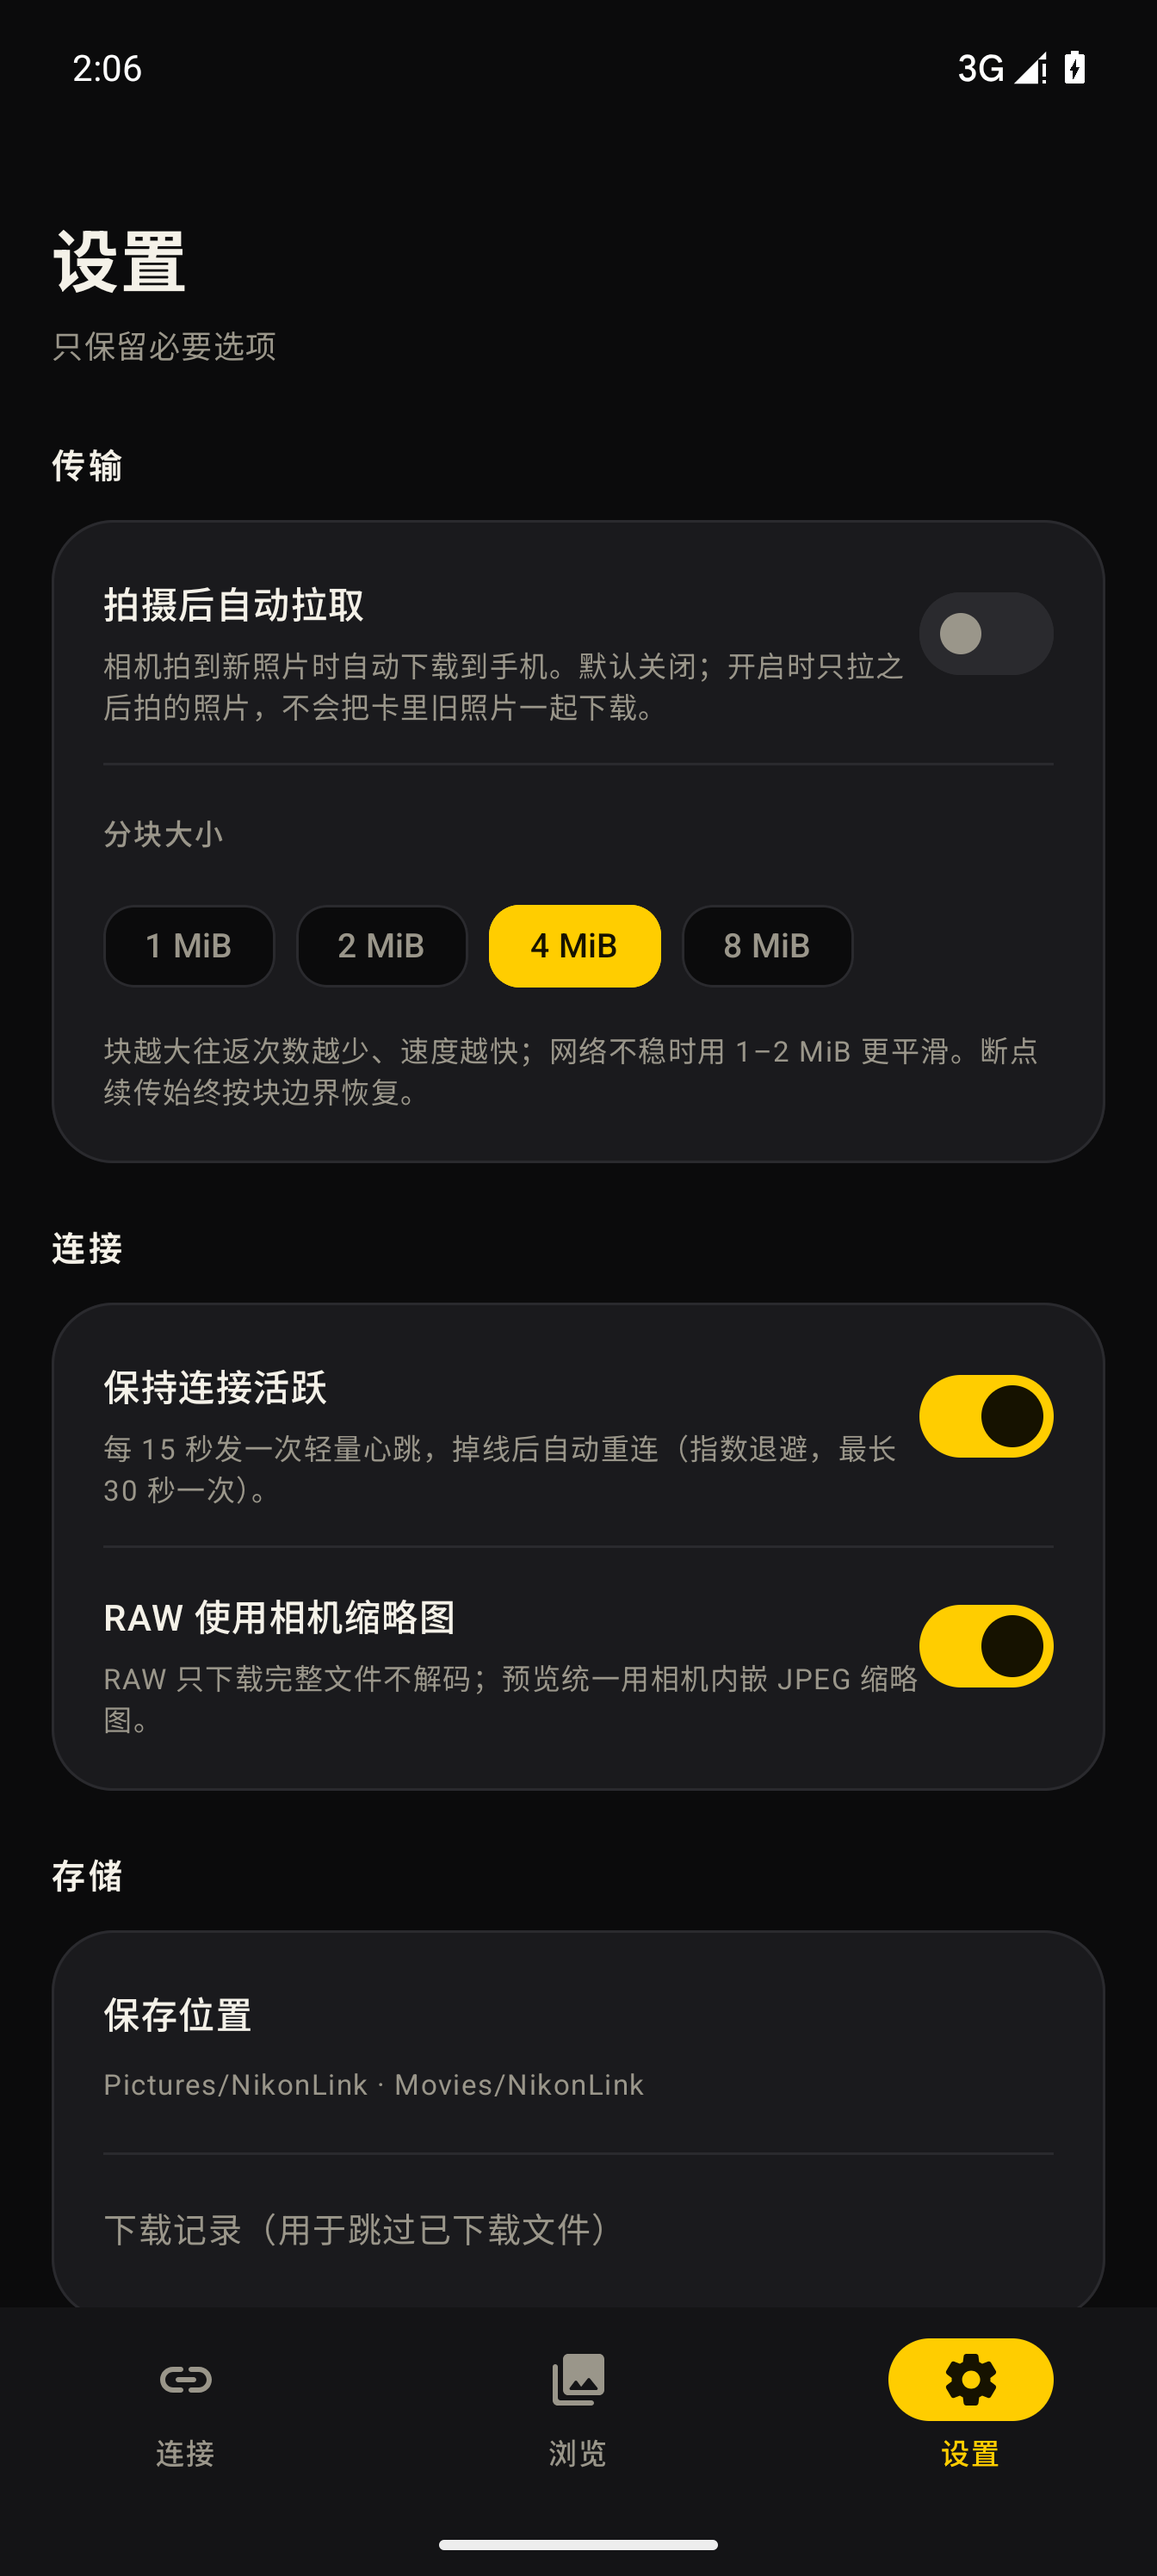
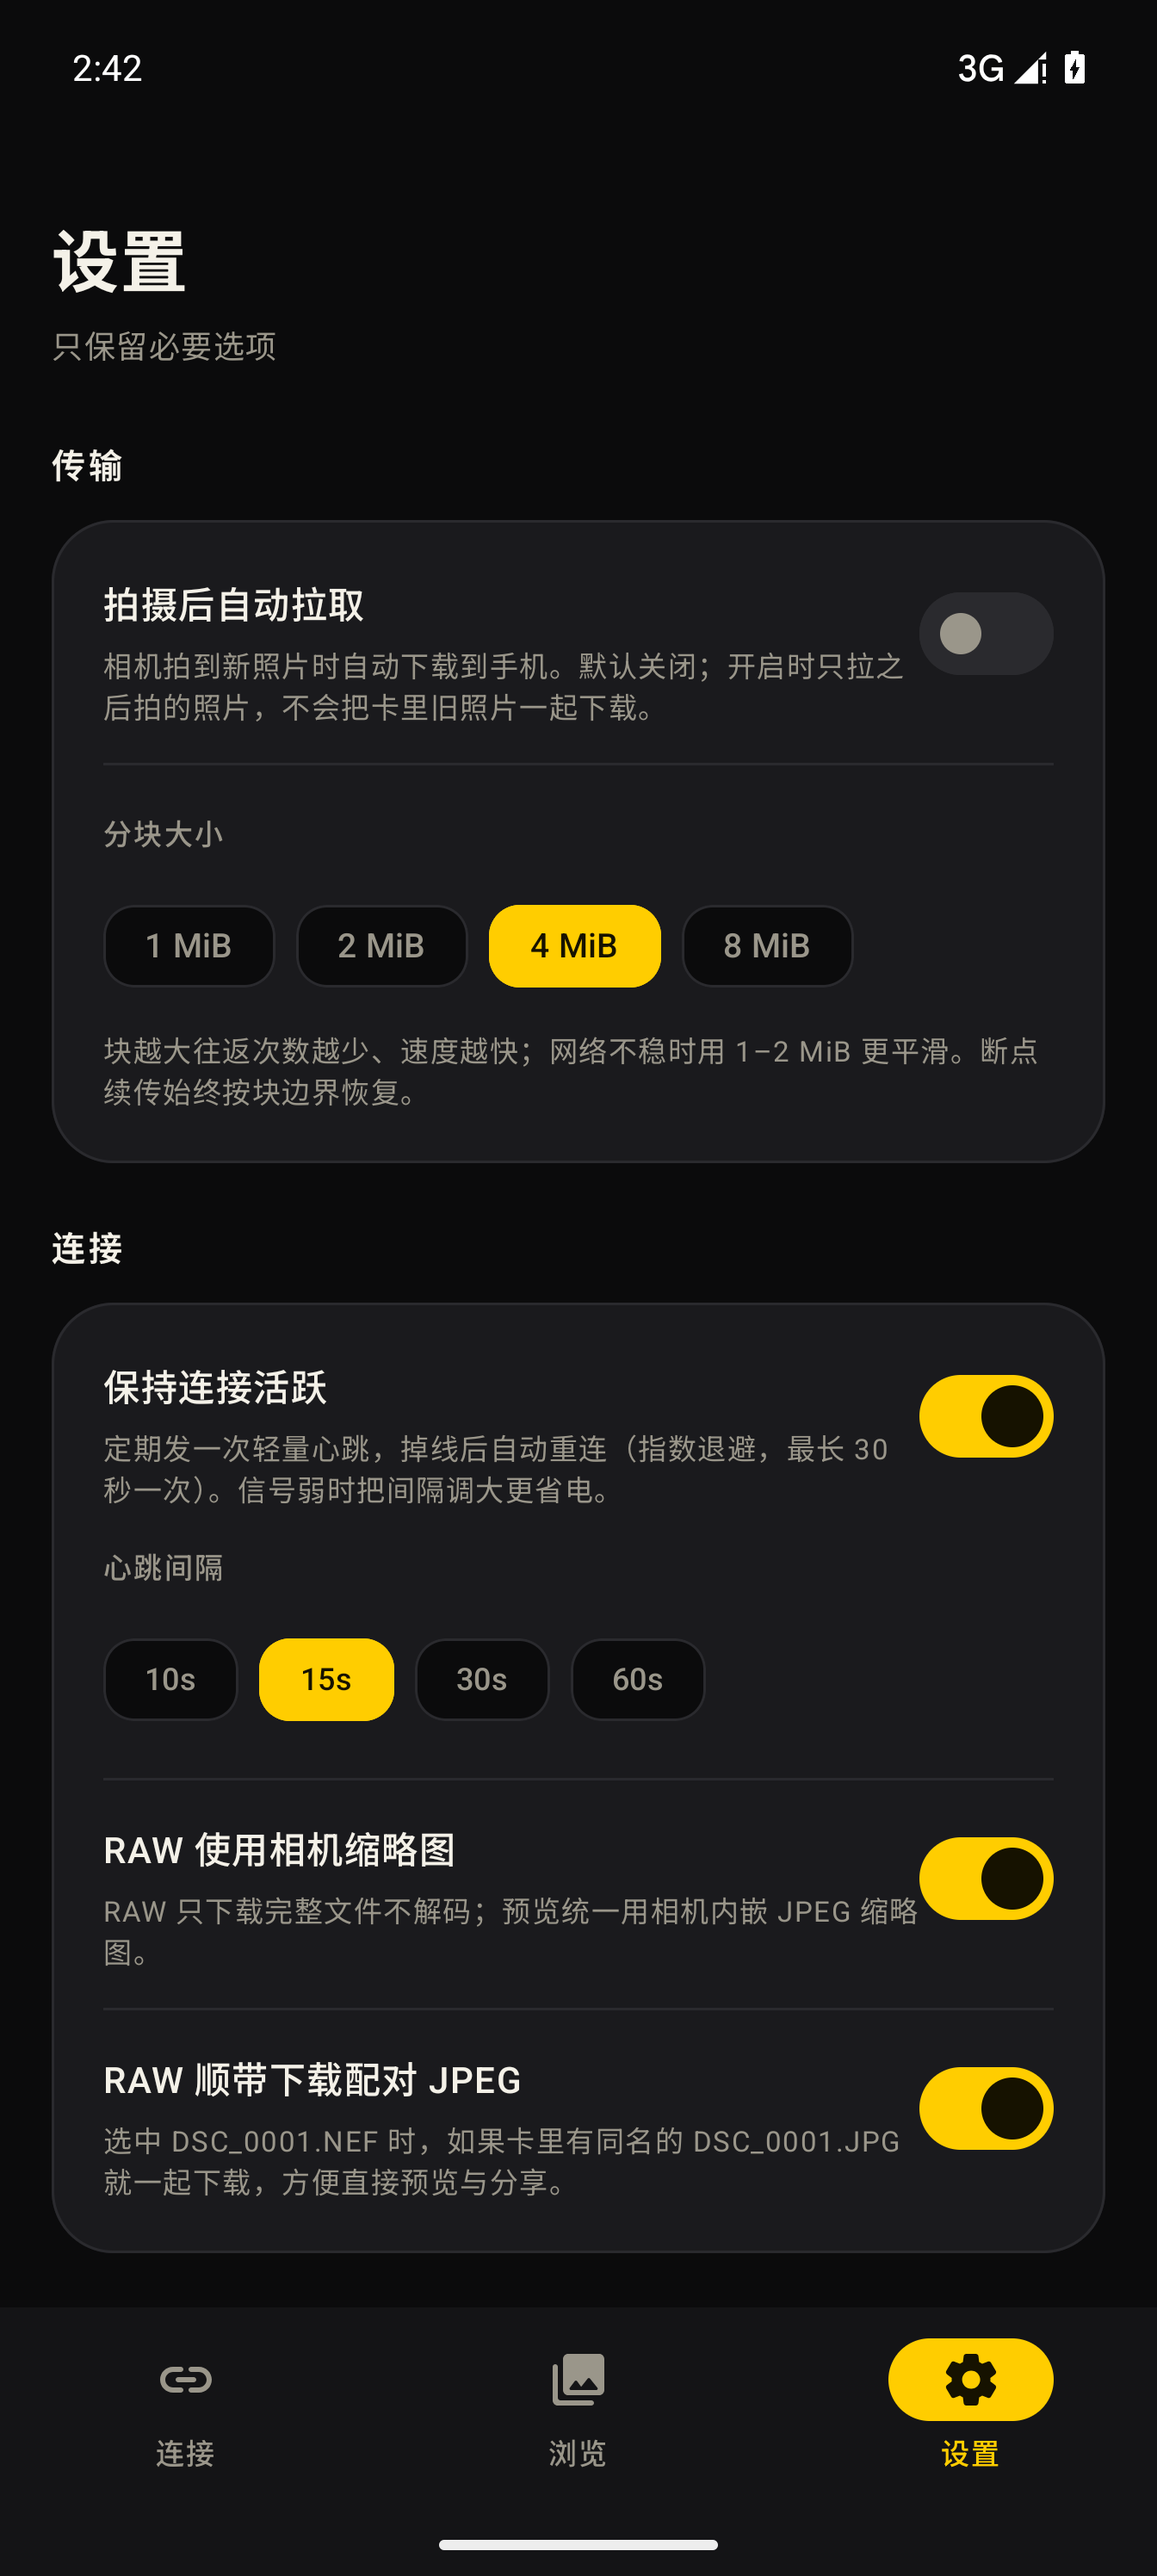
chore: 0.1.8 — lint 收尾、权限修复、死代码清理
- lint 2 error / 4 warning → 0 error / 3 warning
- 声明 ACCESS_COARSE_LOCATION 并在运行时一并申请（Android 12+ 精确位置要求）
- 连接页改用 collectAsStateWithLifecycle，去掉 composition 里的 StateFlow.value
- 「RAW 使用相机缩略图」开关真正生效
- 删除 Tag / TutorialButton / TutorialLinkRow 与未用工具函数、冗余 SDK 判断
- 更新设置页截图

diff --git a/app/src/main/java/com/achooluv/nikonlink/NikonLinkRepository.kt b/app/src/main/java/com/achooluv/nikonlink/NikonLinkRepository.kt
@@ -103,6 +103,7 @@ class NikonLinkRepository private constructor(private val app: Application) {
 
     private var thumbLargeUnsupported = false
     private var allHandles: List<Int> = emptyList()
+    private val kindByHandle = HashMap<Int, com.achooluv.nikonlink.camera.FileKind>()
     private var loadedPages = 0
     private var connectJob: Job? = null
     private var keepAliveJob: Job? = null
@@ -169,6 +170,7 @@ class NikonLinkRepository private constructor(private val app: Application) {
                 loadedPages = 0
                 allHandles = emptyList()
                 _files.value = emptyList()
+                kindByHandle.clear()
                 thumbnailCache.evictAll()
 
                 val storage = readStorage()
@@ -234,6 +236,7 @@ class NikonLinkRepository private constructor(private val app: Application) {
             _identity.value = null
             _files.value = emptyList()
             allHandles = emptyList()
+            kindByHandle.clear()
             thumbnailCache.evictAll()
         }
     }
@@ -350,6 +353,7 @@ class NikonLinkRepository private constructor(private val app: Application) {
                 allHandles = handles.distinct().sortedDescending()
                 loadedPages = 0
                 _files.value = emptyList()
+                kindByHandle.clear()
                 reconcileBaseline()
                 loadPage()
             } catch (e: Exception) {
@@ -386,6 +390,7 @@ class NikonLinkRepository private constructor(private val app: Application) {
             if (info.isFolder) continue
             val file = CameraFile.from(info, handle)
             if (file.kind == com.achooluv.nikonlink.camera.FileKind.OTHER) continue
+            kindByHandle[file.handle] = file.kind
             loaded += file
         }
         loadedPages++
@@ -445,6 +450,12 @@ class NikonLinkRepository private constructor(private val app: Application) {
     }
 
     /** Loads a JPEG preview for [handle]; returns null when the body has none. */    suspend fun thumbnail(handle: Int): ByteArray? {
+        // Honour the "RAW 使用相机缩略图" switch: with it off, RAW cells stay as placeholders.
+        if (!settings.showRawThumbnails.value &&
+            kindByHandle[handle] == com.achooluv.nikonlink.camera.FileKind.RAW
+        ) {
+            return null
+        }
         thumbnailCache.get(handle)?.let { return it }
         thumbMutex.withLock {
             thumbnailCache.get(handle)?.let { return it }

diff --git a/app/src/main/java/com/achooluv/nikonlink/ui/Components.kt b/app/src/main/java/com/achooluv/nikonlink/ui/Components.kt
@@ -9,8 +9,6 @@ import androidx.compose.animation.core.infiniteRepeatable
 import androidx.compose.animation.core.rememberInfiniteTransition
 import androidx.compose.animation.core.tween
 import androidx.compose.foundation.background
-import androidx.compose.foundation.border
-import androidx.compose.foundation.clickable
 import androidx.compose.foundation.layout.Arrangement
 import androidx.compose.foundation.layout.Box
 import androidx.compose.foundation.layout.Column
@@ -21,7 +19,6 @@ import androidx.compose.foundation.layout.height
 import androidx.compose.foundation.layout.padding
 import androidx.compose.foundation.layout.size
 import androidx.compose.foundation.shape.RoundedCornerShape
-import androidx.compose.material3.MaterialTheme
 import androidx.compose.material3.Surface
 import androidx.compose.material3.Text
 import androidx.compose.runtime.Composable
@@ -29,7 +26,6 @@ import androidx.compose.runtime.getValue
 import androidx.compose.runtime.remember
 import androidx.compose.ui.Alignment
 import androidx.compose.ui.Modifier
-import androidx.compose.ui.composed
 import androidx.compose.ui.draw.clip
 import androidx.compose.ui.graphics.Brush
 import androidx.compose.ui.graphics.Color
@@ -165,25 +161,5 @@ fun Mono(text: String, color: Color = Paper, size: Int = 13) {
         color = color,
         fontSize = size.sp,
         fontFamily = androidx.compose.ui.text.font.FontFamily.Monospace,
-    )
-}
-
-@Composable
-fun Tag(text: String, color: Color = NikonLinkTheme.colors.dim) {
-    Box(
-        Modifier
-            .border(1.dp, color.copy(alpha = 0.4f), RoundedCornerShape(20.dp))
-            .padding(horizontal = 10.dp, vertical = 4.dp),
-    ) {
-        Text(text, color = color, fontSize = 11.sp)
-    }
-}
-
-/** Clickable row without the ripple, for inline links on a dark background. */
-fun Modifier.clickableNoIndication(onClick: () -> Unit): Modifier = composed {
-    clickable(
-        interactionSource = remember { androidx.compose.foundation.interaction.MutableInteractionSource() },
-        indication = null,
-        onClick = onClick,
     )
 }

diff --git a/app/src/main/java/com/achooluv/nikonlink/ui/Tutorial.kt b/app/src/main/java/com/achooluv/nikonlink/ui/Tutorial.kt
@@ -103,8 +103,7 @@ val tutorialSections = listOf(
 )
 
 @Composable
-fun TutorialSheet(onDismiss: () -> Unit) {
-    androidx.compose.material3.ModalBottomSheet(
+fun TutorialSheet(onDismiss: () -> Unit) {    androidx.compose.material3.ModalBottomSheet(
         onDismissRequest = onDismiss,
         containerColor = InkRaised,
         dragHandle = {
@@ -202,33 +201,5 @@ private fun TutorialRow(step: TutorialStep) {
                 }
             }
         }
-    }
-}
-
-@Composable
-fun TutorialButton(onClick: () -> Unit) {
-    androidx.compose.material3.OutlinedButton(
-        onClick = onClick,
-        shape = RoundedCornerShape(14.dp),
-        border = androidx.compose.foundation.BorderStroke(1.dp, NikonLinkTheme.colors.line),
-    ) {
-        Text("连接教程", color = Paper, fontSize = 14.sp)
-    }
-}
-
-@Composable
-fun TutorialLinkRow(onClick: () -> Unit) {
-    Row(
-        Modifier
-            .fillMaxWidth()
-            .padding(vertical = 4.dp),
-        horizontalArrangement = Arrangement.Start,
-    ) {
-        Text(
-            "查看连接教程 →",
-            color = NikonYellow,
-            fontSize = 13.sp,
-            modifier = Modifier.padding(4.dp).clickableNoIndication(onClick),
-        )
     }
 }

diff --git a/app/src/main/java/com/achooluv/nikonlink/transfer/Downloader.kt b/app/src/main/java/com/achooluv/nikonlink/transfer/Downloader.kt
@@ -68,8 +68,6 @@ class Downloader(
     private fun partFile(file: CameraFile): File =
         File(incomingDir(), "${file.handle}_${file.size}.part")
 
-    fun hasPartial(file: CameraFile): Boolean = runCatching { partFile(file).length() > 0 }.getOrDefault(false)
-
     /**
      * Downloads [files] sequentially. Existing `.part` files resume from their
      * current length (GetPartialObject), so an interrupted RAW or movie continues
@@ -288,16 +286,13 @@ class Downloader(
         }.getOrDefault(false)
     }
 
-    private fun mimeFor(file: CameraFile): String = when (file.extension) {        "JPG", "JPEG" -> "image/jpeg"
+    private fun mimeFor(file: CameraFile): String = when (file.extension) {
+        "JPG", "JPEG" -> "image/jpeg"
         "NEF" -> "image/x-nikon-nef"
         "MOV" -> "video/quicktime"
         "MP4" -> "video/mp4"
         else -> "application/octet-stream"
     }
-
-    fun savedFolderHint(): String = "Pictures/NikonLink · Movies/NikonLink"
-
-    fun describeSize(bytes: Long): String = String.format(Locale.US, "%.1f MB", bytes / 1024.0 / 1024.0)
 }
 
 /** Smallest chunk NikonLink falls back to before giving up on a body. */

diff --git a/app/src/main/java/com/achooluv/nikonlink/ui/ConnectScreen.kt b/app/src/main/java/com/achooluv/nikonlink/ui/ConnectScreen.kt
@@ -70,6 +70,7 @@ fun ConnectScreen(
     val identity by repo.identity.collectAsStateWithLifecycle()
     val profile by repo.profile.collectAsStateWithLifecycle()
     val settings = repo.settings
+    val chunkSize by settings.chunkSize.collectAsStateWithLifecycle()
 
     var manualDialog by remember { mutableStateOf(false) }
     val connected = state is ConnState.Connected
@@ -228,7 +229,7 @@ fun ConnectScreen(
                     Spacer(Modifier.height(14.dp))
                     InfoRow("固件", id.firmware.ifBlank { "—" })
                     InfoRow("序列号", id.serial.ifBlank { "—" })
-                    InfoRow("传输分块", SettingsStore.chunkLabel(settings.chunkSize.value))
+                    InfoRow("传输分块", SettingsStore.chunkLabel(chunkSize))
                     InfoRow(
                         "断点续传",
                         if (profile?.supportsPartialObject == true) "支持" else "相机不支持",

diff --git a/app/src/main/java/com/achooluv/nikonlink/MainActivity.kt b/app/src/main/java/com/achooluv/nikonlink/MainActivity.kt
@@ -32,6 +32,7 @@ class MainActivity : ComponentActivity() {
     private fun ensurePermissions() {
         val wanted = buildList {
             add(Manifest.permission.ACCESS_FINE_LOCATION)
+            add(Manifest.permission.ACCESS_COARSE_LOCATION)
             if (Build.VERSION.SDK_INT >= Build.VERSION_CODES.TIRAMISU) {
                 add(Manifest.permission.NEARBY_WIFI_DEVICES)
                 add(Manifest.permission.POST_NOTIFICATIONS)

diff --git a/app/src/main/java/com/achooluv/nikonlink/service/ConnectionService.kt b/app/src/main/java/com/achooluv/nikonlink/service/ConnectionService.kt
@@ -55,7 +55,6 @@ class ConnectionService : Service() {
     }
 
     private fun ensureChannel() {
-        if (Build.VERSION.SDK_INT < Build.VERSION_CODES.O) return
         val manager = getSystemService(NotificationManager::class.java) ?: return
         if (manager.getNotificationChannel(CHANNEL_ID) != null) return
         val channel = NotificationChannel(
